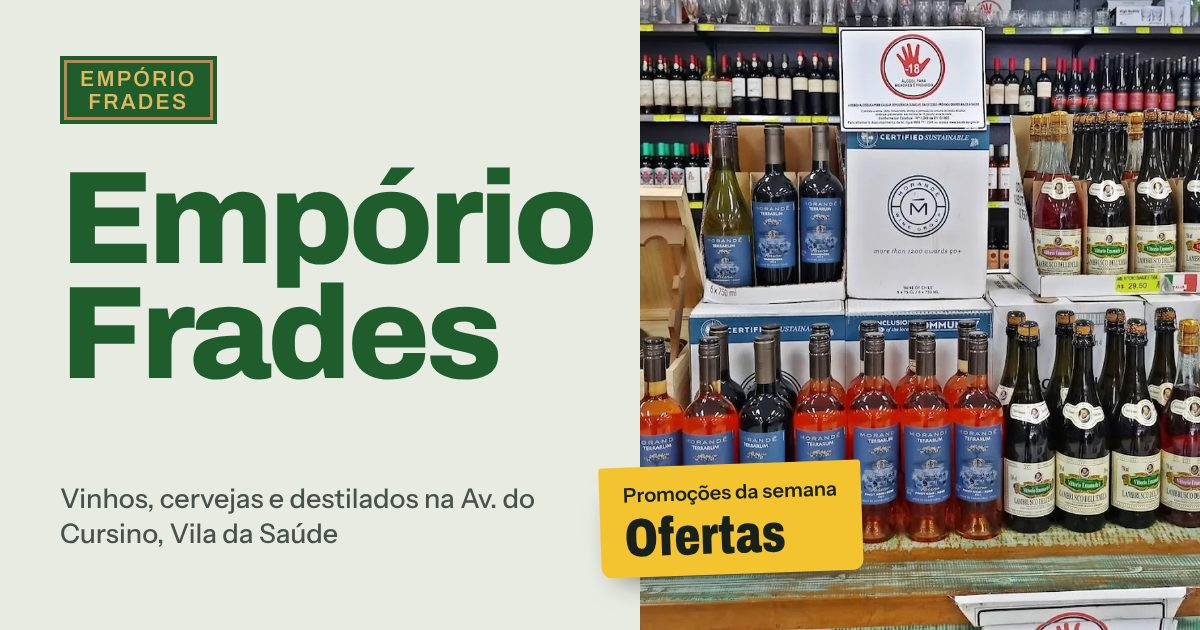
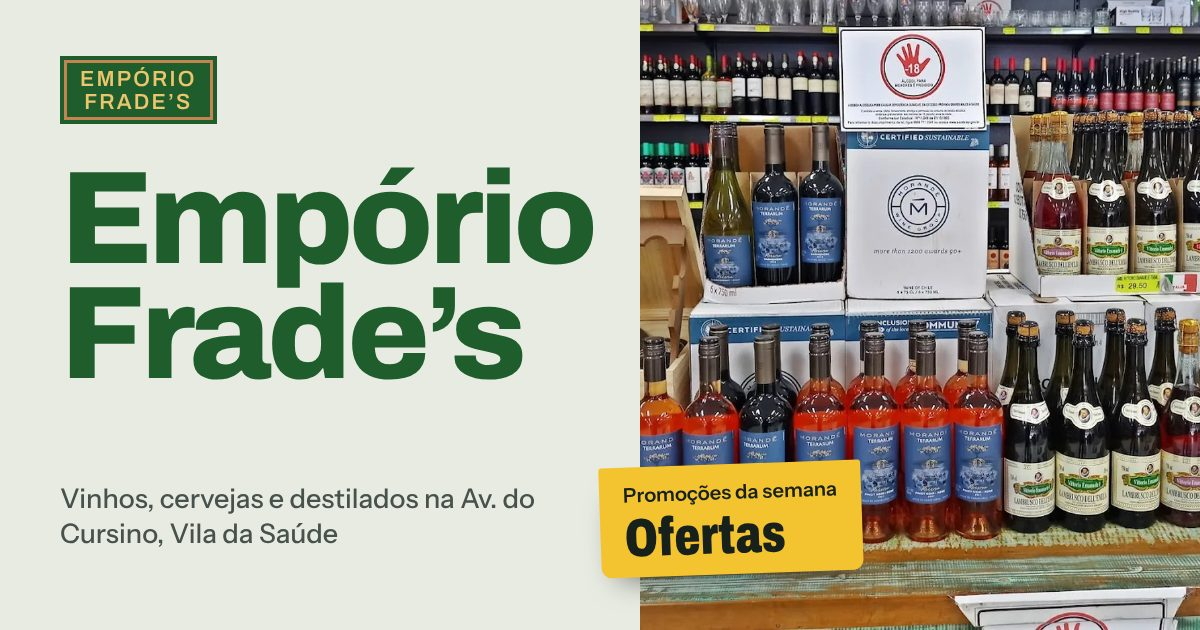
Nome certo da loja (Empório Frade's), coordenadas no mapa e tudo pronto pra publicar no GitHub Pages em subpasta

Changed region(s): [[0.3392, 0.4524, 0.4625, 0.6032], [0.0617, 0.1206, 0.1542, 0.181]]

diff --git a/src/styles/tokens.css b/src/styles/tokens.css
@@ -1,11 +1,11 @@
-/* Fontes hospedadas no próprio site (sem CDN de terceiros). Licença OFL em /fonts. */
+/* Fontes hospedadas no próprio site (sem CDN de terceiros). Licença OFL em src/assets/fonts. */
 @font-face {
   font-family: 'Archivo Variable';
   font-style: normal;
   font-display: swap;
   font-weight: 100 900;
   font-stretch: 62% 125%;
-  src: url('/fonts/archivo-latin-wdth-normal.woff2') format('woff2-variations');
+  src: url('../assets/fonts/archivo-latin-wdth-normal.woff2') format('woff2-variations');
   unicode-range: U+0000-00FF, U+0131, U+0152-0153, U+02BB-02BC, U+02C6, U+02DA, U+02DC, U+0304, U+0308, U+0329,
     U+2000-206F, U+20AC, U+2122, U+2191, U+2193, U+2212, U+2215, U+FEFF, U+FFFD;
 }
@@ -16,7 +16,7 @@
   font-display: swap;
   font-weight: 100 900;
   font-stretch: 62% 125%;
-  src: url('/fonts/archivo-latin-ext-wdth-normal.woff2') format('woff2-variations');
+  src: url('../assets/fonts/archivo-latin-ext-wdth-normal.woff2') format('woff2-variations');
   unicode-range: U+0100-02BA, U+02BD-02C5, U+02C7-02CC, U+02CE-02D7, U+02DD-02FF, U+0304, U+0308, U+0329,
     U+1D00-1DBF, U+1E00-1E9F, U+1EF2-1EFF, U+2020, U+20A0-20AB, U+20AD-20C0, U+2113, U+2C60-2C7F, U+A720-A7FF;
 }
@@ -26,7 +26,7 @@
   font-style: normal;
   font-display: swap;
   font-weight: 400 700;
-  src: url('/fonts/instrument-sans-latin-wght-normal.woff2') format('woff2-variations');
+  src: url('../assets/fonts/instrument-sans-latin-wght-normal.woff2') format('woff2-variations');
   unicode-range: U+0000-00FF, U+0131, U+0152-0153, U+02BB-02BC, U+02C6, U+02DA, U+02DC, U+0304, U+0308, U+0329,
     U+2000-206F, U+20AC, U+2122, U+2191, U+2193, U+2212, U+2215, U+FEFF, U+FFFD;
 }
@@ -36,7 +36,7 @@
   font-style: normal;
   font-display: swap;
   font-weight: 400 700;
-  src: url('/fonts/instrument-sans-latin-ext-wght-normal.woff2') format('woff2-variations');
+  src: url('../assets/fonts/instrument-sans-latin-ext-wght-normal.woff2') format('woff2-variations');
   unicode-range: U+0100-02BA, U+02BD-02C5, U+02C7-02CC, U+02CE-02D7, U+02DD-02FF, U+0304, U+0308, U+0329,
     U+1D00-1DBF, U+1E00-1E9F, U+1EF2-1EFF, U+2020, U+20A0-20AB, U+20AD-20C0, U+2113, U+2C60-2C7F, U+A720-A7FF;
 }

diff --git a/src/data/seed.ts b/src/data/seed.ts
@@ -6,7 +6,7 @@ import type { SiteContent, StoreSettings } from '../lib/schemas';
  * painel; mantenha este arquivo atualizado só como rede de segurança.
  */
 export const storeSettings: StoreSettings = {
-  name: 'Empório Frades',
+  name: 'Empório Frade’s',
   tagline: 'Vinhos, espumantes, cervejas especiais e destilados na Avenida do Cursino, com a prateleira cheia e gente que entende do assunto.',
   about:
     'Um empório de bairro na Vila da Saúde, com rótulos do mundo inteiro: tintos, brancos e rosés, espumantes para brindar, cervejas especiais, destilados, taças e acessórios. Passe para conhecer ou ligue para saber se temos o que você procura.',
@@ -17,8 +17,8 @@ export const storeSettings: StoreSettings = {
   state: 'SP',
   zip: '04133-000',
   reference: '',
-  latitude: null,
-  longitude: null,
+  latitude: -23.6037774,
+  longitude: -46.6153218,
   phone: '1135429564',
   whatsapp: '',
   whatsapp_message: '',

diff --git a/tests/security/static.test.ts b/tests/security/static.test.ts
@@ -50,6 +50,16 @@ describe('Content-Security-Policy', () => {
   });
 });
 
+describe('CSP por <meta> (GitHub Pages)', () => {
+  it('mesma política, sem frame-ancestors (que <meta> não aceita)', () => {
+    const meta: string = buildCsp({ supabaseUrl: 'https://abc.supabase.co', meta: true });
+    expect(meta).not.toContain('frame-ancestors');
+    expect(meta).toContain("script-src 'self'");
+    expect(meta).toContain("require-trusted-types-for 'script'");
+    expect(meta).not.toMatch(/unsafe-inline|unsafe-eval/);
+  });
+});
+
 describe('arquivo _headers', () => {
   const file: string = renderHeadersFile({ supabaseUrl: 'https://abc.supabase.co' });
 

diff --git a/tests/unit/paths.test.ts b/tests/unit/paths.test.ts
@@ -1,0 +1,19 @@
+import { afterEach, describe, expect, it, vi } from 'vitest';
+import { asset } from '../../src/lib/paths';
+
+afterEach(() => vi.unstubAllEnvs());
+
+describe('asset()', () => {
+  it('na raiz', () => {
+    vi.stubEnv('BASE_URL', '/');
+    expect(asset('media/a.webp')).toBe('/media/a.webp');
+    expect(asset('/favicon.svg')).toBe('/favicon.svg');
+    expect(asset('')).toBe('/');
+  });
+
+  it('em subcaminho (GitHub Pages)', () => {
+    vi.stubEnv('BASE_URL', '/emporio-frades/');
+    expect(asset('media/a.webp')).toBe('/emporio-frades/media/a.webp');
+    expect(asset('')).toBe('/emporio-frades/');
+  });
+});

diff --git a/tests/unit/domain.test.ts b/tests/unit/domain.test.ts
@@ -93,7 +93,8 @@ describe('dados reais da loja', () => {
     expect(l.phoneLabel).toBe('(11) 3542-9564');
     expect(l.whatsapp).toBeNull();
     expect(l.instagram).toBe('https://www.instagram.com/emporiofrades_/');
-    expect(l.maps).toContain(encodeURIComponent('Av. do Cursino, 129'));
+    expect(l.maps).toContain(encodeURIComponent('-23.6037774,-46.6153218'));
+    expect(l.waze).toBe('https://waze.com/ul?ll=-23.6037774,-46.6153218&navigate=yes');
   });
 });
 

diff --git a/src/lib/paths.ts b/src/lib/paths.ts
@@ -1,0 +1,8 @@
+/**
+ * Caminho de arquivo público respeitando o subcaminho de publicação
+ * (ex.: GitHub Pages em /emporio-frades/). Em produção na raiz, vira "/x".
+ */
+export function asset(path: string): string {
+  const base = (import.meta.env.BASE_URL ?? '/').replace(/\/$/, '');
+  return `${base}/${path.replace(/^\//, '')}`;
+}

diff --git a/tests/e2e/fake-supabase.ts b/tests/e2e/fake-supabase.ts
@@ -33,7 +33,7 @@ export interface FakeState {
 }
 
 export const baseSettings = {
-  name: 'Empório Frades',
+  name: 'Empório Frade’s',
   tagline: 'Frase vinda do banco.',
   about: 'Sobre vindo do banco.',
   street: 'Rua das Oliveiras',

diff --git a/README.md b/README.md
@@ -57,7 +57,11 @@ npm run audit                    # dependências
 7. Recomendado: em **Authentication → Multi-Factor**, habilite TOTP.
 8. **Project Settings → API**: copie a *Project URL* e a chave **pública** (`anon` ou `publishable`). Nunca use a `service_role`/`secret` no site.
 
-### 2. Cloudflare Pages
+### Prévia no GitHub Pages (já configurada)
+
+Todo push na `main` roda os testes e publica em `https://<usuario>.github.io/emporio-frades/` (workflow `pages.yml`). Serve para validar visual, animações e navegação. Ali a CSP vai por `<meta>`, porque o Pages não aceita cabeçalhos próprios; a proteção contra iframe (`frame-ancestors`) só existe no Cloudflare. Para o painel funcionar na prévia, cadastre `PUBLIC_SUPABASE_URL` e `PUBLIC_SUPABASE_ANON_KEY` em *Settings → Secrets and variables → Actions → Variables*.
+
+### 2. Cloudflare Pages (produção)
 
 1. Suba este repositório para o GitHub.
 2. Cloudflare → **Workers & Pages → Create → Pages → Connect to Git** → escolha o repositório.
@@ -106,10 +110,10 @@ tests/                     unitários, segurança, e2e
 
 ## Antes de publicar
 
-Dados da loja já preenchidos (em `src/data/seed.ts` e `supabase/seed.sql`): Av. do Cursino, 129, Vila da Saúde, São Paulo, CEP 04133-000; telefone (11) 3542-9564; Instagram @emporiofrades_; seg. a sex. 9h às 19h, sáb. 9h às 18h, dom. fechado. Sem WhatsApp por enquanto: os botões principais mostram "Ligar". Quando houver WhatsApp, basta cadastrar no painel que os botões trocam sozinhos.
+Dados da loja já preenchidos (em `src/data/seed.ts` e `supabase/seed.sql`): Empório Frade’s, Av. do Cursino, 129, Vila da Saúde, São Paulo, CEP 04133-000; telefone (11) 3542-9564; Instagram @emporiofrades_; seg. a sex. 9h às 19h, sáb. 9h às 18h, dom. fechado. Sem WhatsApp por enquanto: os botões principais mostram "Ligar". Quando houver WhatsApp, basta cadastrar no painel que os botões trocam sozinhos.
 
-- [ ] **Fotos**: as do salão (`public/media/`) vieram do perfil da loja no Google. Confirme com o dono que pode usá-las (ou substitua por fotos próprias, com os mesmos nomes de arquivo). A foto da fachada não foi usada porque é do Street View.
-- [ ] **Grafia da marca**: a placa diz "FRADE'S"; Instagram e Google dizem "Frades". O site usa "Frades". Confirmar com o dono.
-- [ ] Coordenadas da loja no painel (deixa o mapa exato; sem elas, o mapa busca pelo endereço)
+- [x] Grafia da marca: **Empório Frade’s**, como na placa
+- [x] Fotos do salão liberadas para uso (`public/media/`)
+- [x] Coordenadas: -23.6037774, -46.6153218
 - [ ] Domínio atualizado em `astro.config.mjs`, `robots.txt` e `sitemap.xml`
 - [ ] Promoções e produtos reais cadastrados pelo painel (os do modo demonstração nunca aparecem com o Supabase configurado)
